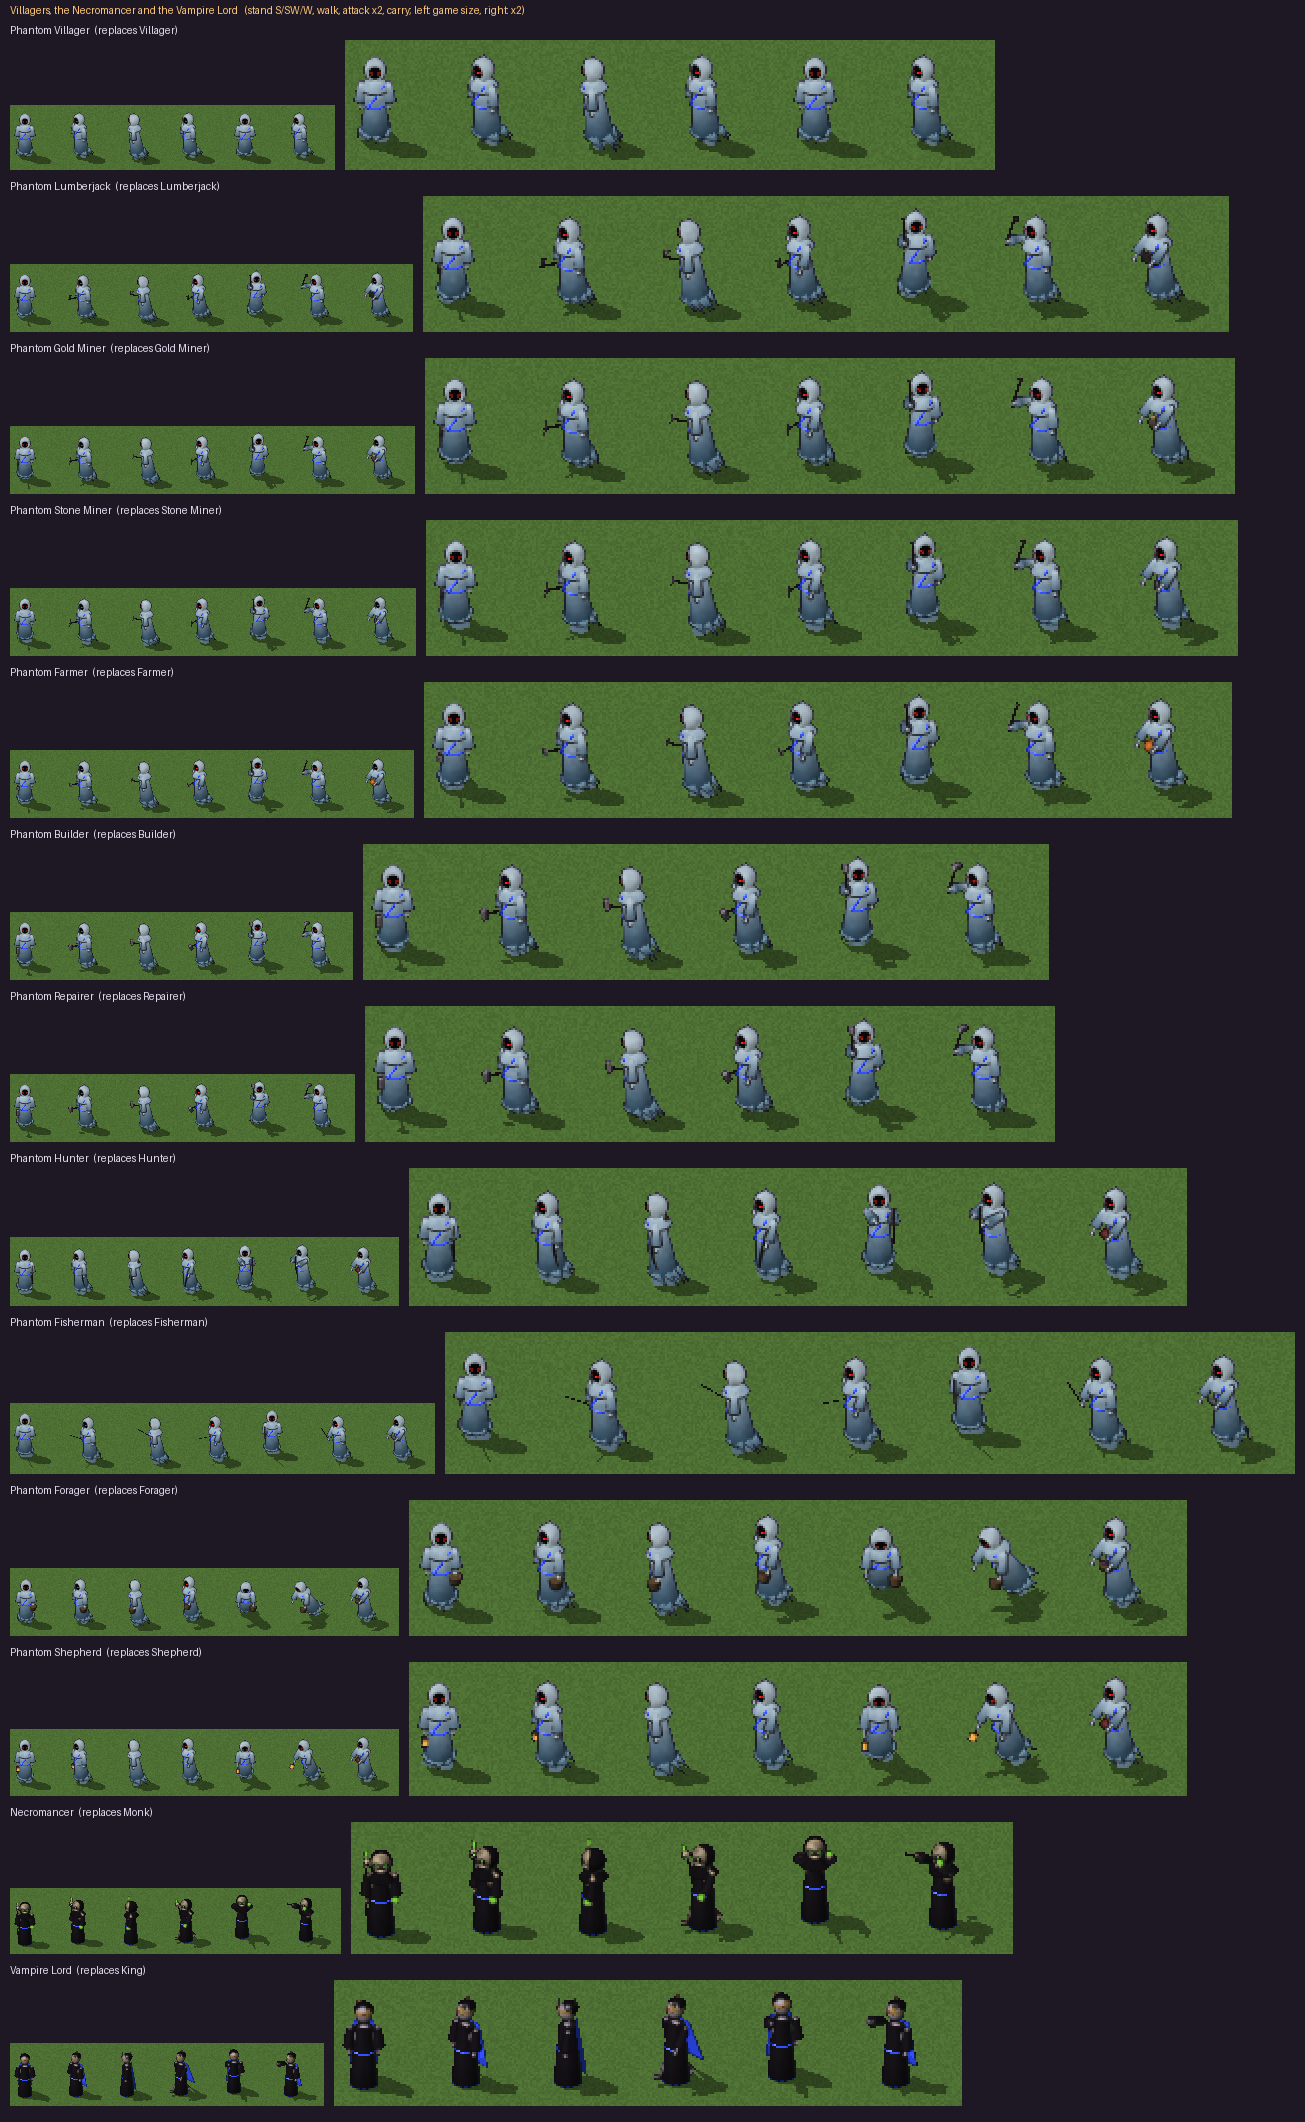
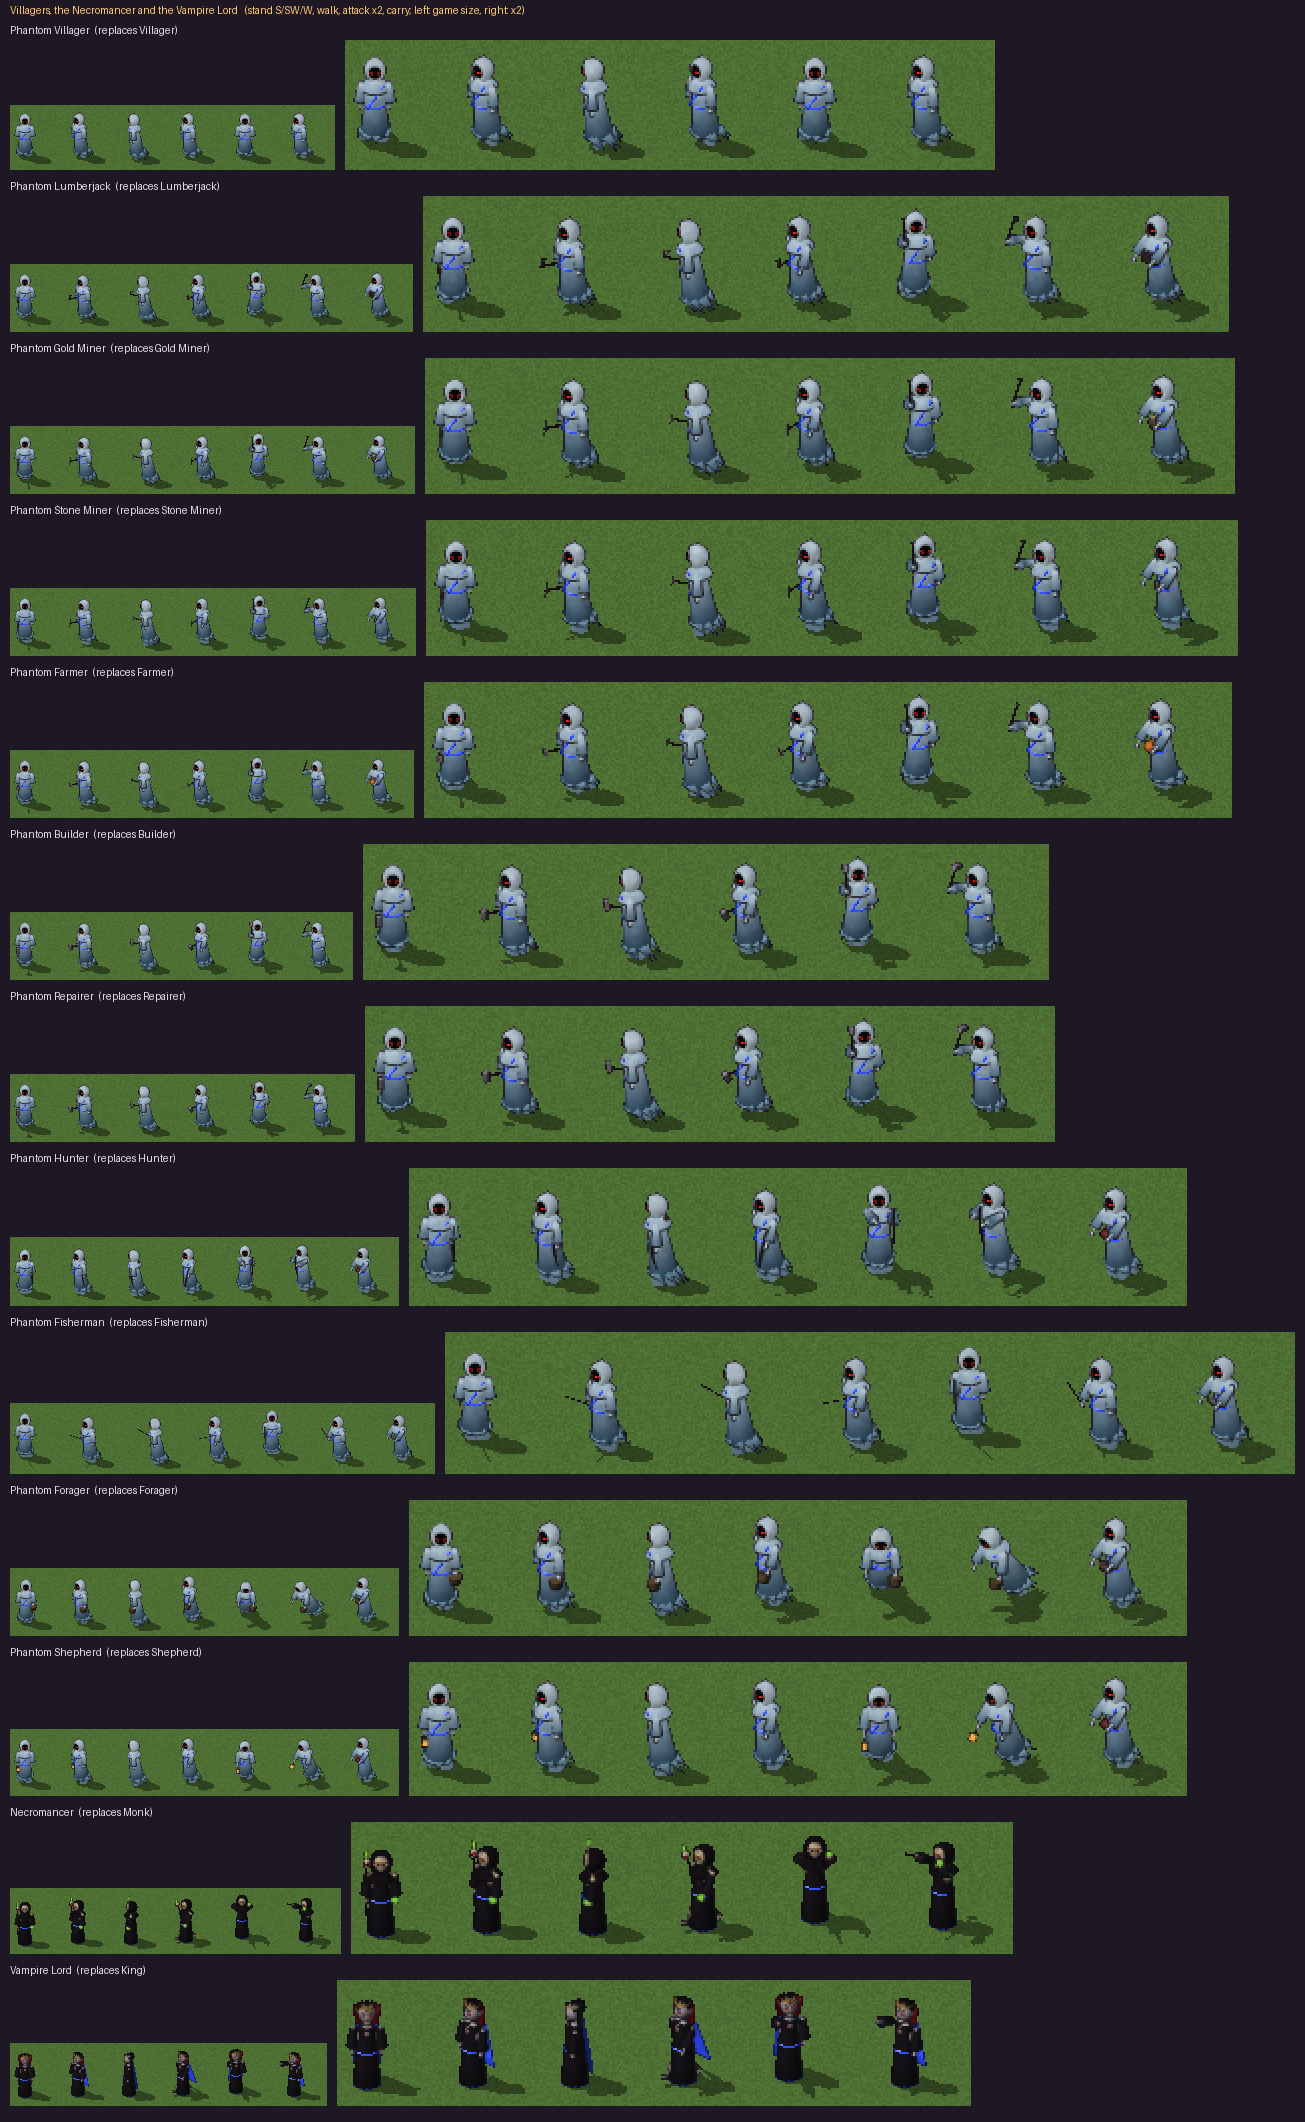
Give the Necromancer a real skull and the Vampire Lord a vampire's face
The Necromancer's head was one smooth ball with green eyes and looked like a
robot. It is now a skull modelled bone by bone under his black cowl: a heavy
brow ridge, cheekbones, a narrower face, dark sockets with a red glow deep in
each, a nose hole and a jaw full of teeth. The skull on his staff has red
eyes too (the player asked for no more green eyes).

The Vampire Lord looked like a clown: his crown sat so low that its gold band
crossed his eyes like make-up and its ruby sat where his nose is. The crown
now sits on top of his head, and he has slicked-back black hair with a
widow's peak, pointed ears, sharp brows over narrow red eyes, a thin nose, a
thin mouth with fangs, a pointed chin, a tall stand-up collar behind his head
(black outside, blood red inside) and a red brooch.

diff --git a/tools/aoh/creatures.py b/tools/aoh/creatures.py
@@ -178,6 +178,7 @@ class Body:
     skin: Optional[S.Material] = None
     eye: tuple = (0.61, 1.0, 0.42)  # the eyes' glow colour
     size: float = 1.0  # the head's size
+    sculpted: bool = False  # a skeleton's skull modelled bone by bone (brow, cheekbones, sockets), not one ball
 
 
 SKIN = {
@@ -202,8 +203,12 @@ EYES = {"skeleton": (0.61, 1.0, 0.42), "zombie": (1.0, 0.85, 0.3), "ghoul": (0.7
         "banshee": (0.85, 0.95, 1.0), "phantom": (1.0, 0.14, 0.06)}
 
 
+RED_EYES = (1.0, 0.14, 0.06)  # the player asked for no more green eyes (2026-10-24)
+
+
 def body(kind: str, seed: int = 0, **kw) -> Body:
-    b = Body(kind=kind, eye=EYES.get(kind, EYES["skeleton"]), **kw)
+    kw.setdefault("eye", EYES.get(kind, EYES["skeleton"]))
+    b = Body(kind=kind, **kw)
     if b.skin is None:
         b.skin = SKIN[kind](seed) if kind in SKIN else P.bone(seed)
     if kind in ("zombie", "ghoul") and "hunch" not in kw:
@@ -220,12 +225,37 @@ def _skull_shapes(b: Body, seed: int) -> list:
     from .undead import _jaw_material, _skull_material
     n = b.neck
     k = b.size
+    if b.sculpted:
+        return _sculpted_skull(n, k, b.eye, seed)
     skull_m = _skull_material(b.eye, seed)
     if b.kind == "calavera":
         skull_m = _calavera_material(b.eye, seed)
     return [S.Ellipsoid(skull_m, S._orient((0, 0.4, n + 3.6 * k)), radii=(3.4 * k, 3.6 * k, 3.3 * k)),
             S.Ellipsoid(_jaw_material(seed), S._orient((0, 1.7 * k, n + 1.0 * k)), radii=(2.3 * k, 2.1 * k,
                                                                                           1.25 * k))]
+
+
+def _sculpted_skull(n: float, k: float, glow, seed: int) -> list:
+    """A skull modelled bone by bone: the cranium, a narrower face under a heavy brow ridge, cheekbones, dark eye
+    sockets each with a glowing point deep inside, a nose hole, and the jaw with its teeth."""
+    from .undead import _jaw_material
+    bone = P.bone(seed)
+    c = np.array([0.0, 0.3, n + 3.8 * k])
+    face_at = c + (0, 1.0 * k, -0.9 * k)
+    face = eyes_material(bone, [(-0.95 * k, 0.85 * k, 0.72 * k, 0.62 * k), (0.95 * k, 0.85 * k, 0.72 * k, 0.62 * k)],
+                         glow, 0.42, P.hexrgb("#120a0c"))
+    nose = S.hull([face_at + (-0.38 * k, 1.78 * k, 0.05 * k), face_at + (0.38 * k, 1.78 * k, 0.05 * k),
+                   face_at + (0, 1.95 * k, -0.75 * k), face_at + (0, 1.3 * k, -0.2 * k)], S.mat(P.hexrgb("#120a0c")))
+    out = [S.Ellipsoid(bone, S._orient(tuple(c + (0, -0.6 * k, 0.1 * k))), radii=(2.9 * k, 3.1 * k, 2.7 * k)),
+           S.Ellipsoid(face, S._orient(tuple(face_at)), radii=(2.2 * k, 1.9 * k, 2.0 * k)),
+           S.Ellipsoid(bone, S._orient(tuple(c + (0, 2.0 * k, 0.6 * k))), radii=(2.3 * k, 0.8 * k, 0.6 * k)),  # the brow
+           nose,
+           S.Ellipsoid(_jaw_material(seed), S._orient(tuple(c + (0, 1.35 * k, -2.55 * k))),
+                       radii=(1.6 * k, 1.45 * k, 0.8 * k))]
+    for sx in (1, -1):  # the cheekbones
+        out.append(S.Ellipsoid(bone, S._orient(tuple(c + (sx * 1.75 * k, 1.6 * k, -0.75 * k))),
+                               radii=(0.7 * k, 1.0 * k, 0.5 * k)))
+    return out
 
 
 def _calavera_material(glow, seed):
@@ -314,11 +344,21 @@ def _head_shapes(b: Body, seed: int) -> list:
         horn = S.mat(P.hexrgb("#1a1414"), shine=0.4)
         shapes += [S.rod((-1.6, 0.4, n + 5.6), (-2.8, -0.8, n + 9.0), 0.7, horn, 0.1),
                    S.rod((1.6, 0.4, n + 5.6), (2.8, -0.8, n + 9.0), 0.7, horn, 0.1)]
-    if kind == "vampire":
+    if kind == "vampire":  # slicked-back black hair with a widow's peak, pointed ears, sharp brows, fangs
         hair = S.mat(P.hexrgb("#141016"), shine=0.6, gloss=30)
+        dark = S.mat(P.hexrgb("#16080c"))
         shapes += [S.ball((0, -0.5, n + 4.6), (3.15, 3.2, 2.6), hair).clip((0, 1, -0.6), 0.9),
-                   S.hull([(-0.7, 2.9, n + 1.4), (-0.4, 2.9, n + 1.4), (-0.55, 3.0, n + 0.6)], S.mat(P.BONE)),
-                   S.hull([(0.7, 2.9, n + 1.4), (0.4, 2.9, n + 1.4), (0.55, 3.0, n + 0.6)], S.mat(P.BONE))]
+                   S.hull([(-1.5, 2.55, n + 6.1), (1.5, 2.55, n + 6.1), (0, 3.2, n + 4.9), (0, 2.2, n + 6.6),
+                           (0, 1.6, n + 6.0)], hair),  # the widow's peak
+                   S.Ellipsoid(b.skin, S._orient((0, 2.3, n + 0.7)), radii=(1.3, 1.1, 1.0)),  # a pointed chin
+                   S.Ellipsoid(b.skin, S._orient((0, 3.15, n + 2.8)), radii=(0.35, 0.45, 0.85)),  # a thin nose
+                   S.Ellipsoid(dark, S._orient((0, 2.95, n + 1.55)), radii=(1.05, 0.3, 0.2)),  # a thin mouth
+                   S.hull([(-0.75, 2.95, n + 1.55), (-0.4, 2.95, n + 1.55), (-0.58, 3.05, n + 0.75)], S.mat(P.BONE)),
+                   S.hull([(0.75, 2.95, n + 1.55), (0.4, 2.95, n + 1.55), (0.58, 3.05, n + 0.75)], S.mat(P.BONE))]
+        for sx in (1, -1):
+            shapes += [S.hull([(sx * 2.7, 0.2, n + 2.7), (sx * 2.7, 0.7, n + 4.1), (sx * 2.6, -0.5, n + 3.6),
+                               (sx * 4.1, -0.7, n + 5.4)], b.skin),  # pointed ears
+                       S.rod((sx * 0.35, 3.25, n + 4.55), (sx * 2.0, 2.75, n + 5.25), 0.24, dark, 0.14)]  # brows
     if kind == "jiangshi":  # the Qing hat and the yellow paper talisman on the forehead
         hat = S.mat(P.hexrgb("#1a1418"))
         shapes += [S.rod((0, 0.3, n + 5.6), (0, 0.3, n + 6.6), 3.6, hat, 3.1),
@@ -497,15 +537,16 @@ def _helmet_shapes(b: Body, kind: str, seed: int) -> list:
         mantle = cloth(DRAB[seed % len(DRAB)], seed=seed) if kind == "hood" else hood
         return [S.ball((0, -0.3, top - 0.8), (3.9, 4.1, 4.3), hood).clip((0, 1, 0), 1.9),
                 S.rod((0, -0.2, b.shoulder + 1.6), (0, -0.2, b.shoulder - 1.4), 2.6, mantle, 5.0)]
-    if kind == "crown":
+    if kind == "crown":  # on the top of the head, above the brow (lower, its band crossed the eyes like make-up)
         gold = P.metal(P.GOLD, seed=seed, shine=0.8)
-        out = [S.rod((0, 0.3, top + 0.2), (0, 0.3, top + 1.6), 3.3, gold, 3.4, capped=False)]
+        z0 = n + 5.6 * b.size
+        out = [S.rod((0, 0.3, z0), (0, 0.3, z0 + 1.1), 2.75, gold, 2.85, capped=False)]
         for a in range(0, 360, 60):
             r = math.radians(a)
-            out.append(S.hull([(math.cos(r) * 3.0 - 0.6, math.sin(r) * 3.0 + 0.3, top + 1.5),
-                               (math.cos(r) * 3.0 + 0.6, math.sin(r) * 3.0 + 0.3, top + 1.5),
-                               (math.cos(r) * 3.3, math.sin(r) * 3.3 + 0.3, top + 3.2)], gold))
-        out.append(S.ball((0, 3.5, top + 1.0), 0.5, S.mat(P.BLOOD, glow=0.5)))
+            out.append(S.hull([(math.cos(r) * 2.6 - 0.5, math.sin(r) * 2.6 + 0.3, z0 + 1.0),
+                               (math.cos(r) * 2.6 + 0.5, math.sin(r) * 2.6 + 0.3, z0 + 1.0),
+                               (math.cos(r) * 2.9, math.sin(r) * 2.9 + 0.3, z0 + 2.6)], gold))
+        out.append(S.ball((0, 3.1, z0 + 0.55), 0.3, S.mat(P.BLOOD, glow=0.5)))
         return out
     if kind == "turban":
         return [S.torus((0, 0.2, top - 0.6), 3.2, 1.3, team_cloth(0.65, seed)),
@@ -685,7 +726,7 @@ def weapon(name: str, seed: int = 0) -> list:
         shapes, d = _shaft(20.0, back=6.0, up_deg=88, r=0.45, m=P.wood(P.hexrgb("#3a2a22"), P.hexrgb("#160e0a"),
                                                                          along=2))
         top = d * 14.0
-        shapes += [_moved(s, top - (0, 0, 0.6)) for s in skull((0, 0, 0), 1.5, seed)]
+        shapes += [_moved(s, top - (0, 0, 0.6)) for s in skull((0, 0, 0), 1.5, seed, RED_EYES)]
         flame = S.Ellipsoid(S.mat(P.SLIME, glow=1.0), S._orient(top + (0, 0, 4.2)), radii=(0.9, 0.9, 1.8))
         flame.casts = False
         shapes.append(flame)
@@ -835,6 +876,18 @@ def person(key: str, name: str, replaces: str, b: Body, g: Gear = Gear(), attack
                                  S.mat(P.hexrgb("#d8d0c0"))) for k in range(3)]]
     if g.back == "keg":
         pass
+    if b.kind == "vampire":  # the tall stand-up collar behind the head: black outside, blood red inside
+        def lining(look):
+            return np.where((look.n[:, 1] > 0.25)[:, None], P.hexrgb("#8a0c16"), P.hexrgb("#121014"))
+        collar = S.Material(color=lining, shine=0.3, vivid=0.7)
+        for sx in (1, -1):
+            base = [(sx * 0.6, -1.9, sh + 0.6), (sx * 3.8, -1.2, sh + 0.4)]
+            tip = [(sx * 1.3, -2.6, b.neck + 6.6), (sx * 5.0, -0.6, b.neck + 5.4)]
+            pts = base + tip
+            torso_shapes.append(S.hull(pts + [(x, y - 0.45, z) for x, y, z in pts], collar))
+        torso_shapes += [S.Ellipsoid(cloth(P.hexrgb("#e8e2d8"), seed=seed), S._orient((0, 2.4, sh - 1.4)),
+                                     radii=(1.3, 0.8, 1.9)),  # a white cravat
+                         S.ball((0, 3.1, sh - 1.0), 0.45, S.mat(P.BLOOD, shine=0.8, glow=0.3))]  # a red brooch
 
     def arm(nm, x, sign, item_name, item):
         elbow = (x + sign * 0.3, 0.4, sh - 5.0)

diff --git a/tools/aoh/infantry.py b/tools/aoh/infantry.py
@@ -9,8 +9,9 @@ targets in slpmap.py).
     Hand Cannoneer      a ghost pirate with a blunderbuss
     Petard              a zombie lifting a jack-o'-lantern bomb with a lit fuse
     Villagers           phantoms: pale glowing spectres in hooded shrouds, with their tools and loads
-    Monk                a necromancer: a skull under a black cowl, a staff with a green flame
-    King                a vampire lord in a crown and a cape
+    Monk                a necromancer: a sculpted skull with red eyes under a black cowl, a staff with a green
+                        flame
+    King                a vampire lord: slicked-back hair, pointed ears, fangs, a crown, a high collar, a cape
     Uniques             Longbowman: a spectral archer. Woad Raider: a banshee. Chu Ko Nu: a jiangshi.
                         Throwing Axeman: a werewolf. Huskarl: a draugr. Samurai: a ghost samurai with an oni mask.
                         War Elephant: an elephant skeleton with a howdah. Teutonic Knight: a death knight.
@@ -154,7 +155,7 @@ FOOT = {
                    attack="shear", group="civilian", seed=11),
     "monk": _unit("monk", "Necromancer", "Monk", "skeleton", Gear(helmet="cowl", cloth="robe", right="staff",
                                                                     left="orb"), attack="cast", group="civilian",
-                  seed=12),
+                  seed=12, sculpted=True, eye=C.RED_EYES),
     "king": _unit("king", "Vampire Lord", "King", "vampire", Gear(helmet="crown", cloth="robe", cape=True),
                   group="civilian", seed=13),
     # the militia line: skeletons

diff --git a/tools/aoh/graveyard.py b/tools/aoh/graveyard.py
@@ -40,10 +40,11 @@ def railing(a, b, z0, height, spacing=2.2) -> list:
     return out
 
 
-def skull(at, r=1.6, seed=0) -> list:
+def skull(at, r=1.6, seed=0, glow=None) -> list:
     from .undead import _jaw_material, _skull_material
     c = np.asarray(at, float)
-    return [S.Ellipsoid(_skull_material(seed=seed), S._orient(c + (0, 0, r * 1.05)), radii=(r, r * 1.05, r * 0.95)),
+    m = _skull_material(seed=seed) if glow is None else _skull_material(glow, seed)
+    return [S.Ellipsoid(m, S._orient(c + (0, 0, r * 1.05)), radii=(r, r * 1.05, r * 0.95)),
             S.Ellipsoid(_jaw_material(seed), S._orient(c + (0, r * 0.5, r * 0.3)), radii=(r * 0.68, r * 0.6, r * 0.38))]
 
 

diff --git a/docs/DESIGN.md b/docs/DESIGN.md
@@ -35,7 +35,7 @@ group has a preview sheet, `previews/cast_<group>.png`.
 | Group | Halloween take |
 |---|---|
 | Villagers | phantoms: pale glowing spectres in hooded shrouds whose hems trail into mist, two red eyes in the dark under the hood, a sash in the owner's colour, each job with its tool and its load (logs, ore, pumpkins, meat, fish) |
-| Monk / King | a hooded necromancer with a skull staff / a vampire lord in a high-collared cloak |
+| Monk / King | a necromancer: a skull with red eyes in the dark of a black cowl, a skull staff / a vampire lord: slicked-back black hair with a widow's peak, pointed ears, red eyes, fangs, a crown, and a tall collar lined blood red |
 | Swordsmen, spearmen | skeleton soldiers whose armour gets better each age |
 | Archers | skeleton archers; crossbowmen are ghouls; skirmishers are imps with javelins |
 | Eagle Warriors | Camazotz bat-men |
